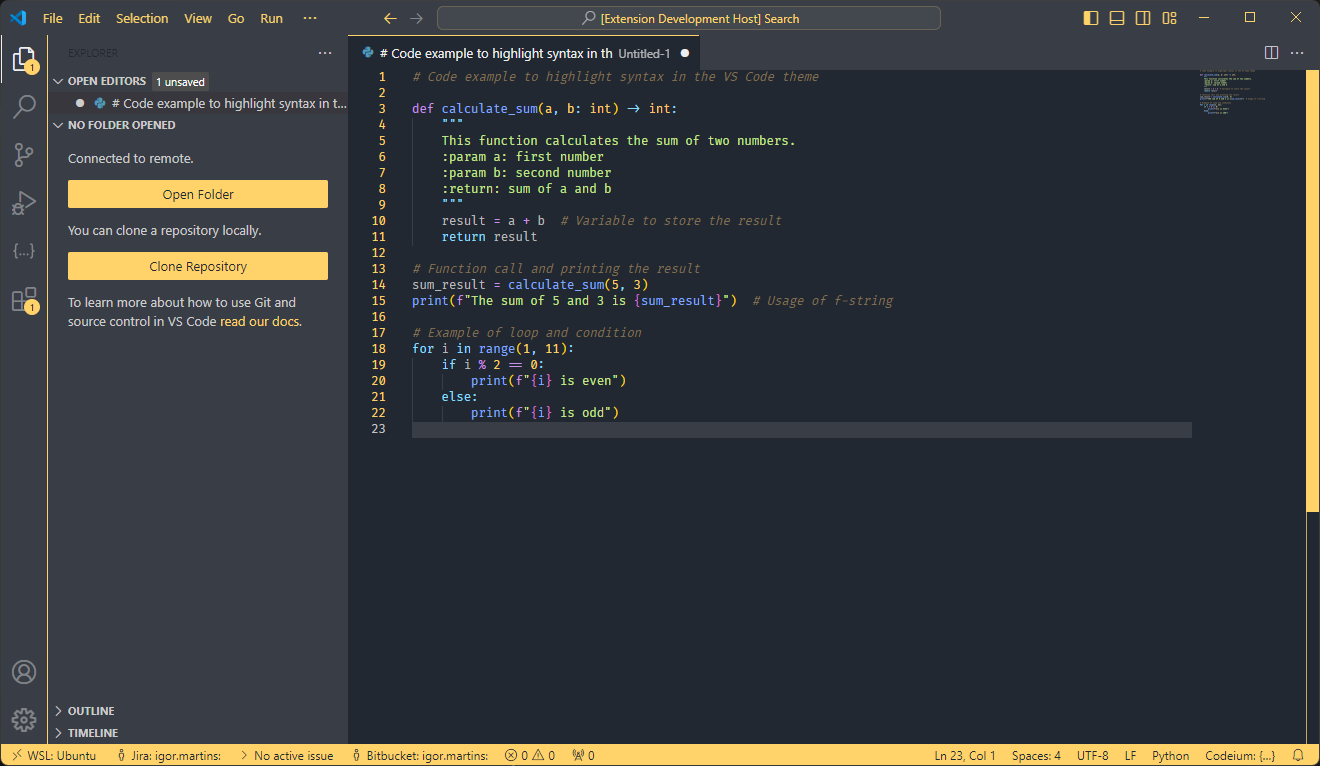
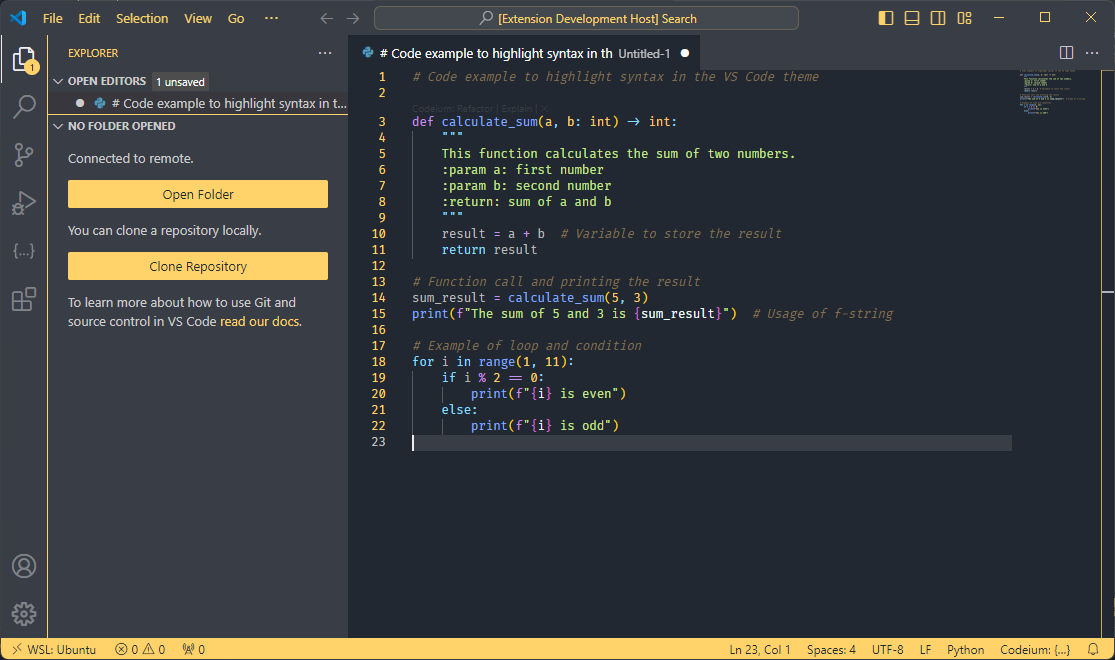
Issue #1 - Some colors fixed

diff --git a/CHANGELOG.md b/CHANGELOG.md
@@ -4,6 +4,10 @@ All notable changes to the "ducke-theme" extension will be documented in this fi
 
 Check [Keep a Changelog](http://keepachangelog.com/) for recommendations on how to structure this file.
 
+## [1.0.3]
+
+- Fixed color errors described in issue #1
+
 ## [1.0.2]
 
 - Update readme
